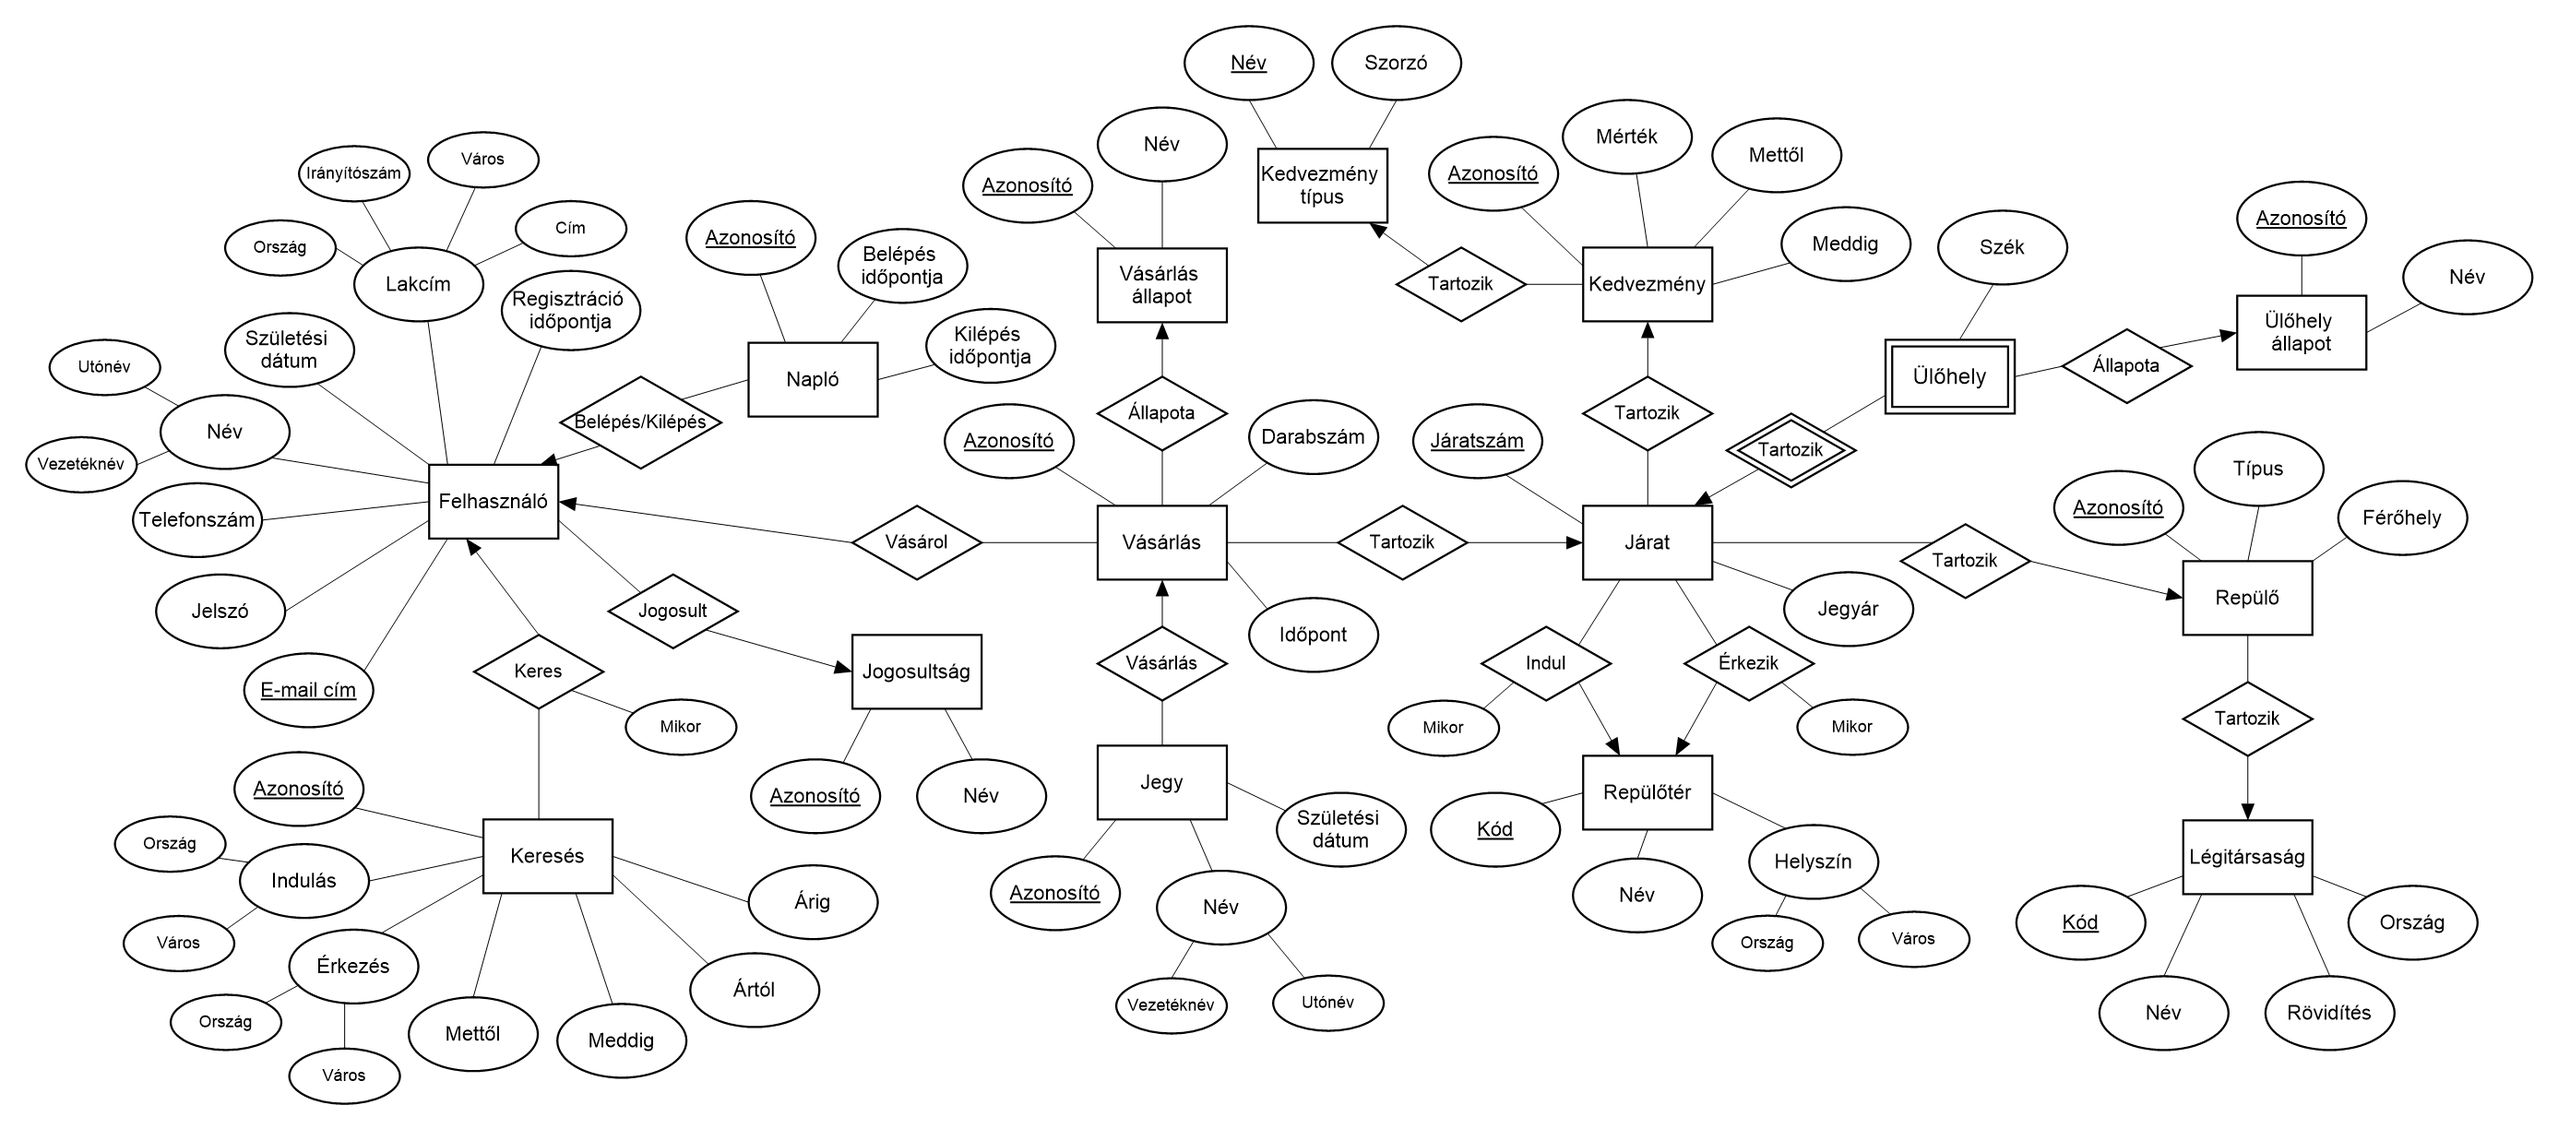
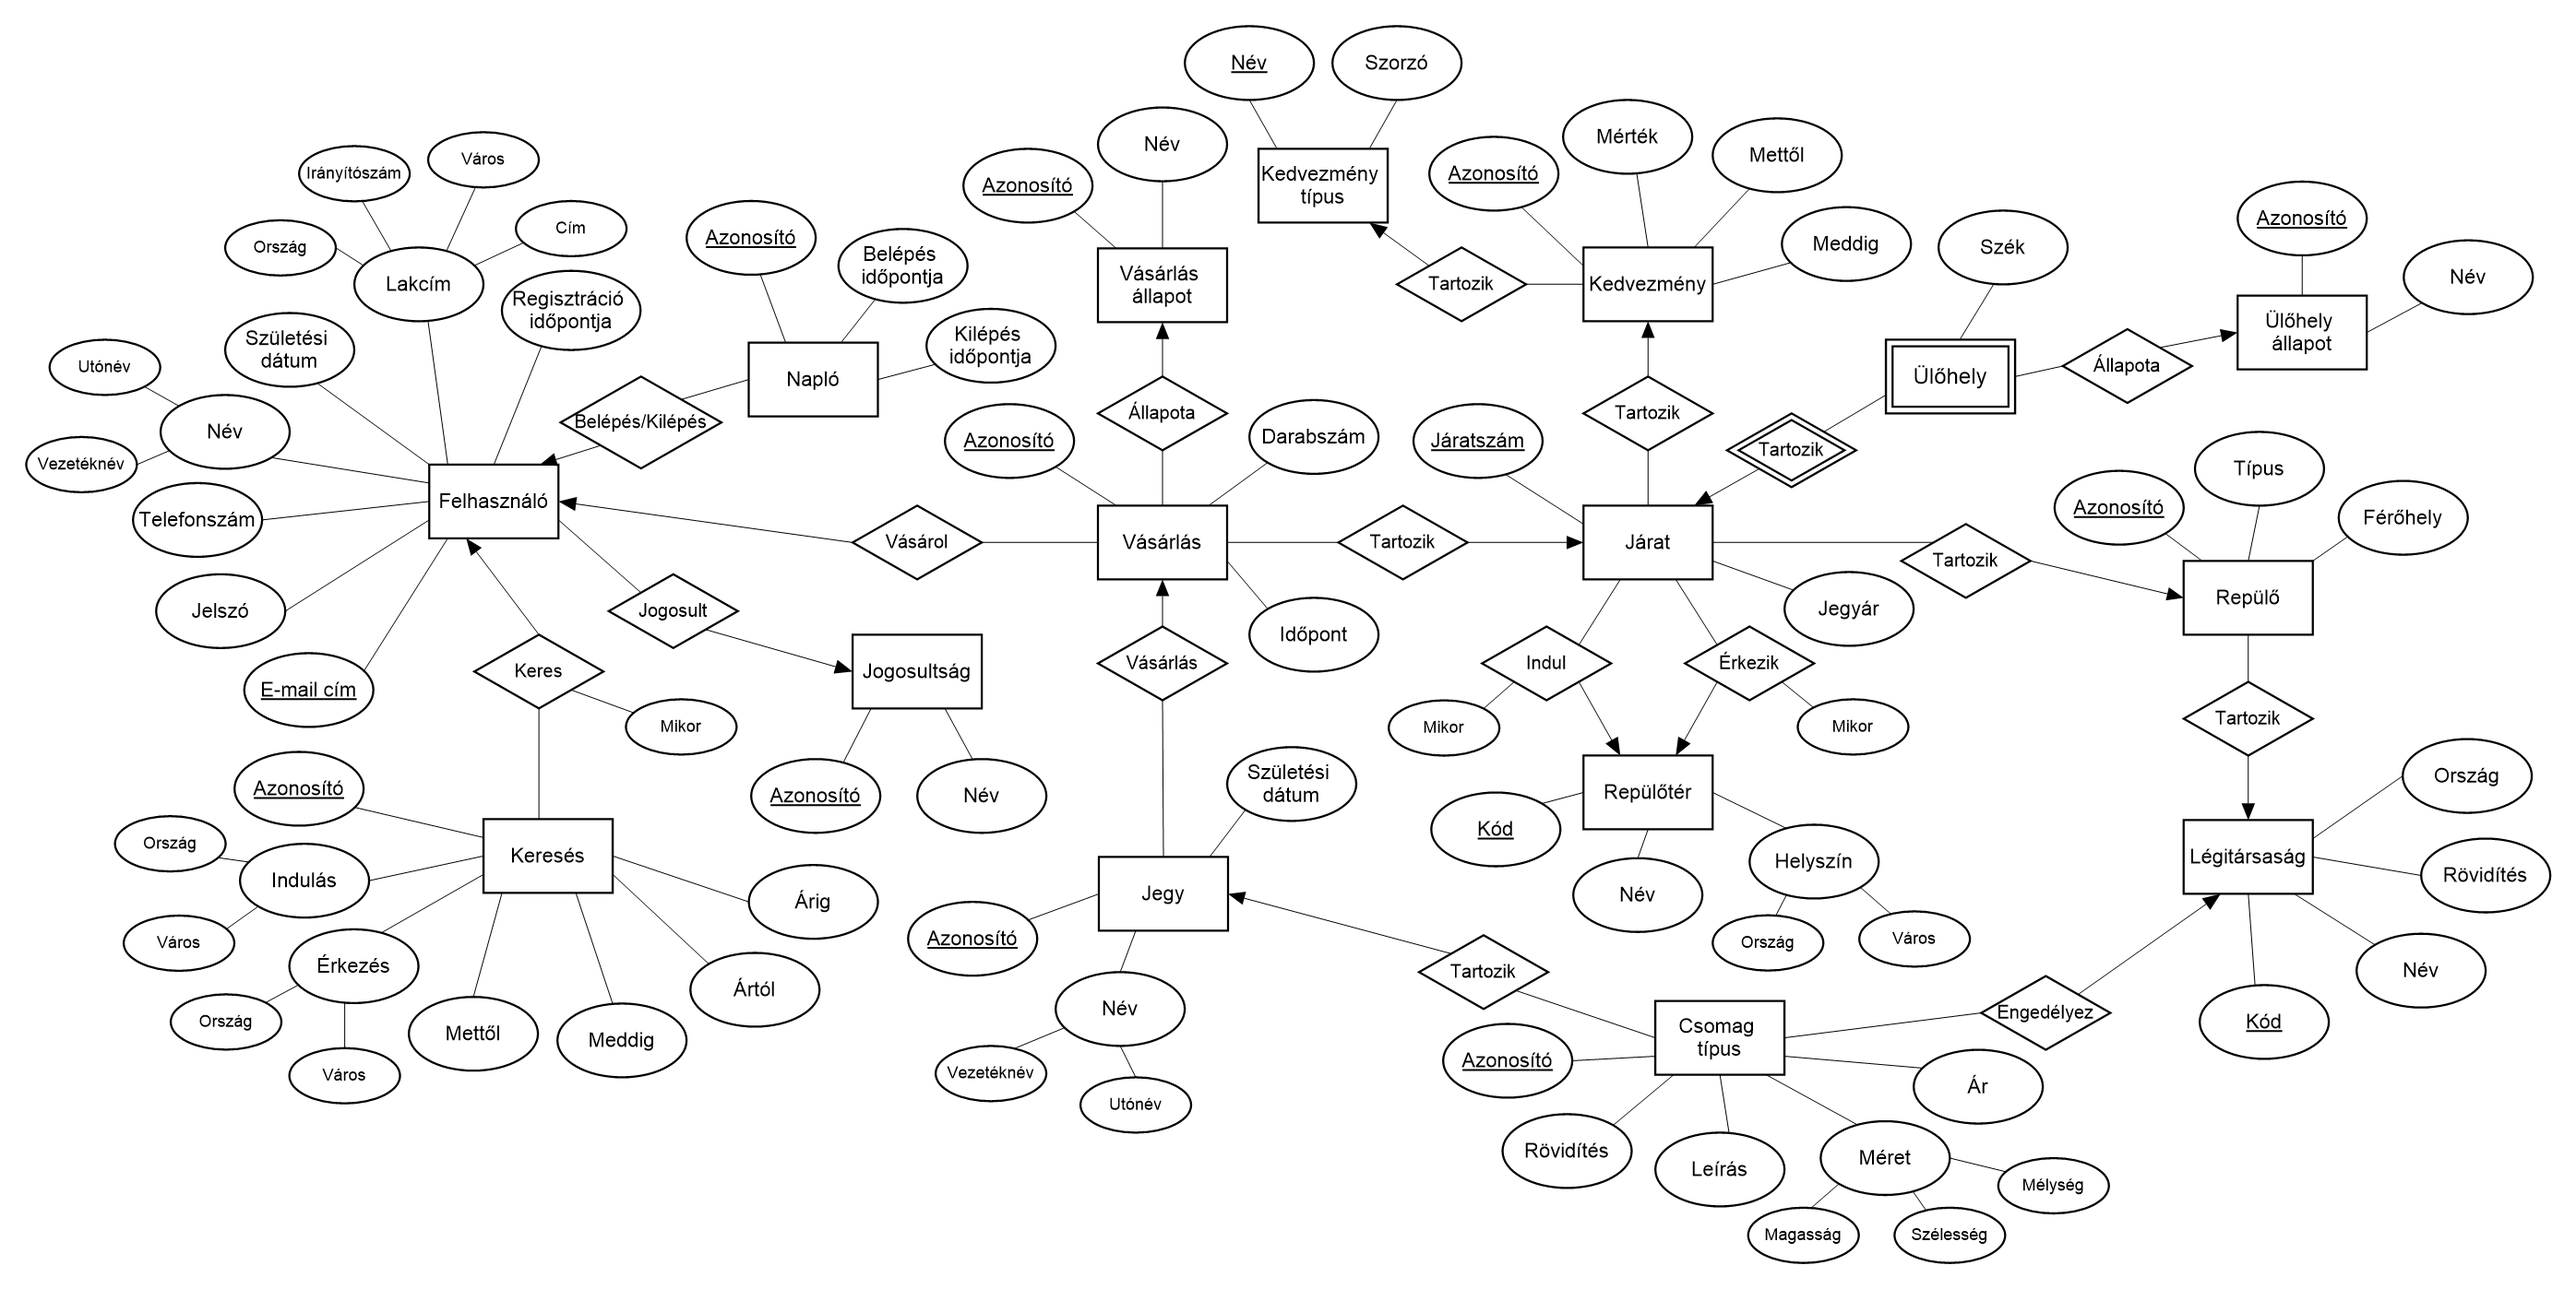
Update database (Add Package type and Package entities)

diff --git a/README.md b/README.md
@@ -66,6 +66,8 @@ Kedvezmény(<ins>azonosító</ins>, *Járat.járatszám*, *típus*, mérték, me
 Vásárlási_állapot(<ins>azonosító</ins>, állapot)
 Vásárlás(<ins>azonosító</ins>, *Felhasználó.e-mail*, *Járat.járatszám*, darabszám, mikor, *állapot*)
 Jegy(<ins>azonosító</ins>, *Vásárlás.azonosító*, vezetéknév, utónév, születési_dátum)
+Csomag_típus(<ins>azonosító</ins>, *Légitársaság.azonosító*, rövidítés, leírás, magasság, szélesség, mélység, ár)
+Csomag(<ins>azonosító</ins>, *Jegy.azonosító*, *Csomag_típus.azonosító*)
 Keresés(<ins>azonosító</ins>, *Felhasználó.e-mail*, *indulás_ország*, *indulás_város*, *érkezés_ország*, *érkezés_város*, mettől, meddig, ártól, árig, <ins>mikor</ins>)
 
 ### 4.1. 1. normálforma
@@ -147,7 +149,7 @@ Járat            | &nbsp;    | &nbsp;
 ---------------- | --------- | ------------------------------------------------
 jaratszam        | NUMBER(6) | A járat egyedi azonosítója
 repulo_azonosito | NUMBER(4) | A járathoz tartozó repülő azonosítója
-jegyar           | NUMBER(6) | Egyetlen jegy ára Ft-ban
+jegyar           | NUMBER(6) | Egyetlen jegy ára (Ft)
 indulas          | DATE      | A járat indulásának időpontja
 indulas_kod      | CHAR(4)   | A repülőtér kódja, amelyről a repülőgép felszáll
 erkezes          | DATE      | A járat érkezésének időpontja
@@ -209,12 +211,33 @@ allapot   | NUMBER(1)    | A vásárlás állapota
 Jegy               | &nbsp;       | &nbsp;
 ------------------ | ------------ | --------------------------------------
 azonosito          | NUMBER(6)    | A jegy egyedi azonosítója
-vasarlas_azonosito | NUMBER(6)    | A jegyhez "tartozó vásárlás"
+vasarlas_azonosito | NUMBER(6)    | A jegyhez tartozó vásárlás
 v_nev              | VARCHAR2(30) | A jegy tulajdonosának vezetékneve
 u_nev              | VARCHAR2(30) | A jegy tulajdonosának utóneve
 szul_datum         | DATE         | A jegy tulajdonosának születési dátuma
 
-### 5.15. Keresés
+### 5.15. Csomag típus
+
+Csomag típus     | &nbsp;       | &nbsp;
+---------------- | ------------ | --------------------------------------------------------------
+azonosito        | NUMBER(3)    | A csomag típus egyedi azonosítója
+legitarsasag_kod | CHAR(3)      | A légitársaság kódja, amelyhez a csomag típus tartozik
+rovidites        | VARCHAR2(5)  | A csomag típus rövidítése
+leiras           | VARCHAR2(25) | A csomag típus leírása
+magassag         | NUMBER(4, 1) | A csomag típus által meghatározott csomag max. magassága (cm)
+szelesseg        | NUMBER(4, 1) | A csomag típus által meghatározott csomag max. szélessége (cm)
+melyseg          | NUMBER(4, 1) | A csomag típus által meghatározott csomag max. mélysége (cm)
+ar               | NUMBER(5)    | A csomag típus által meghatározott csomag ára (Ft)
+
+### 5.16. Csomag
+
+Csomag                 | &nbsp;    | &nbsp;
+---------------------- | --------- | ----------------------------------------------
+azonosito              | NUMBER(6) | A csomag egyedi azonosítója
+jegy_azonosito         | NUMBER(6) | A jegy azonosítója, amelyhez a csomag tartozik
+csomag_tipus_azonosito | NUMBER(3) | A csomag típusának azonosítója
+
+### 5.17. Keresés
 
 Keresés        | &nbsp;       | &nbsp;
 -------------- | ------------ | --------------------------------------------------
